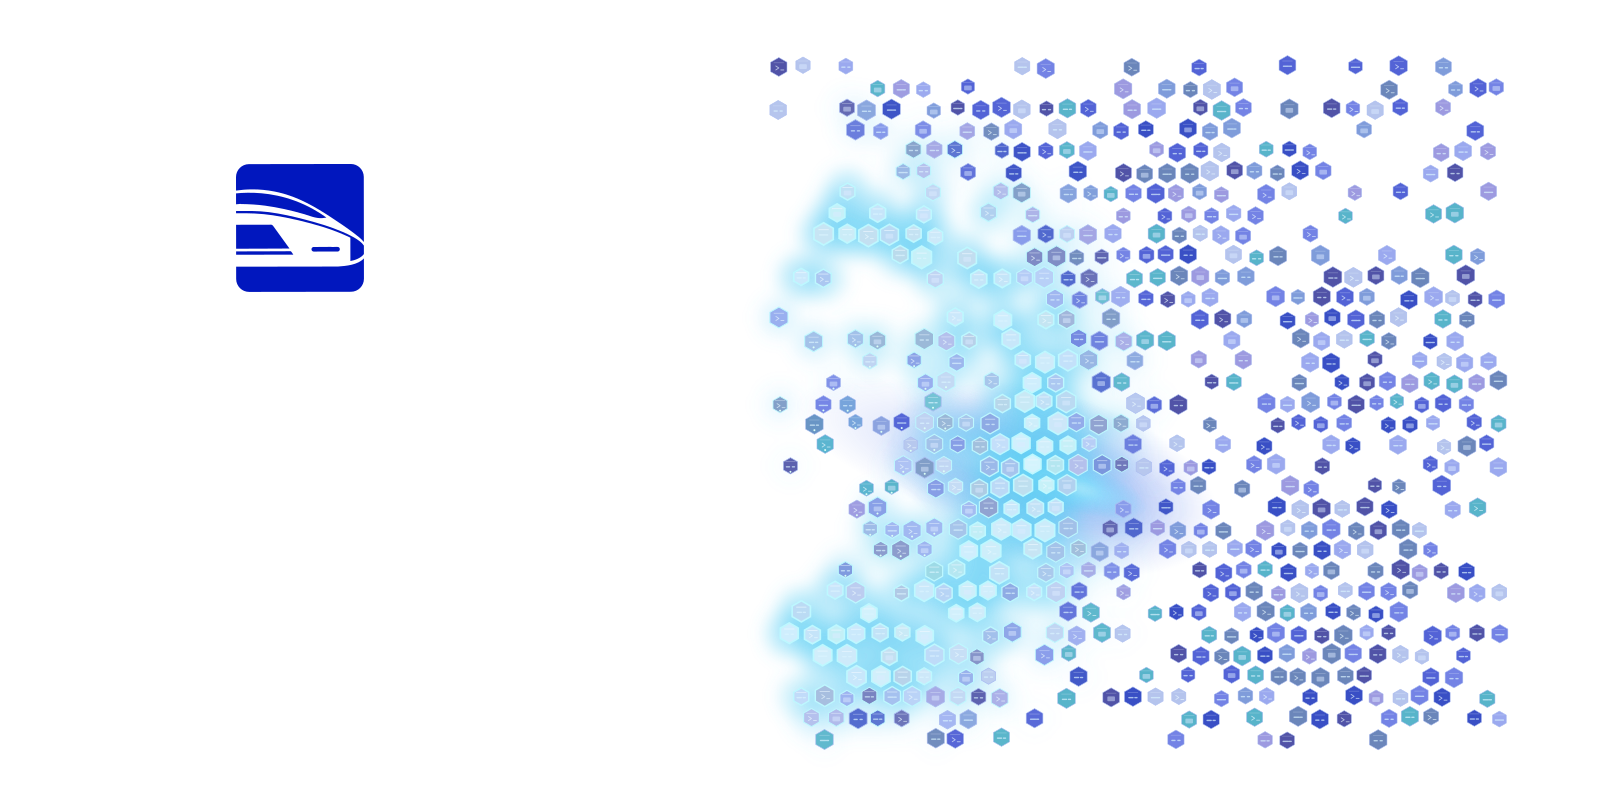
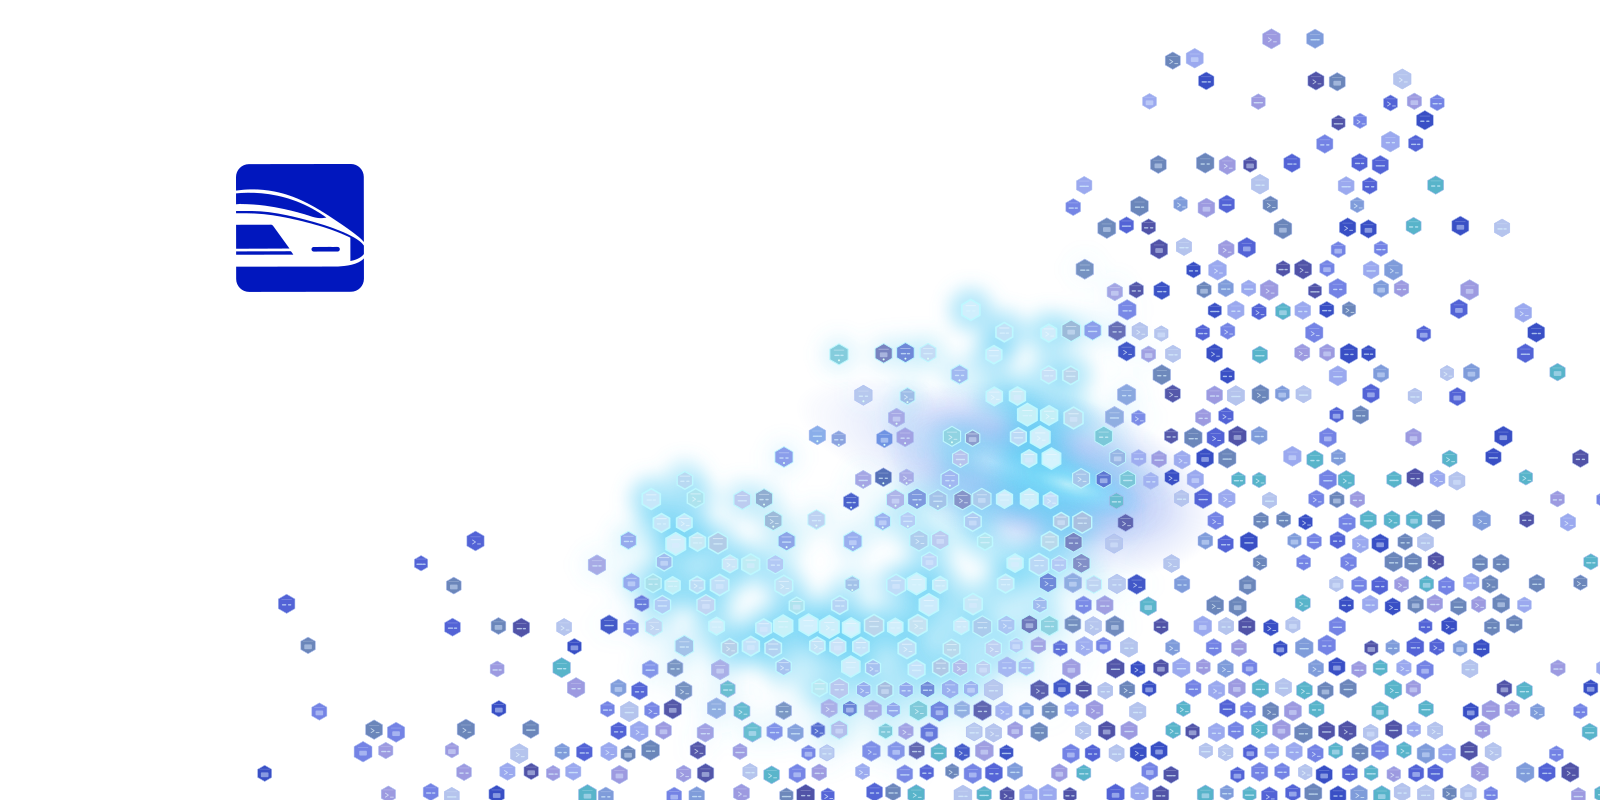
docs(blog): let the deployment field widen and flow

diff --git a/blog/litellm_enterprise_registry/RegistryHero.js b/blog/litellm_enterprise_registry/RegistryHero.js
@@ -19,7 +19,7 @@ export default function RegistryHero() {
           src={imageUrl(paused ? poster : animation)}
           width="1600"
           height="800"
-          alt="A broad pulse of light travels slowly from the LiteLLM logo to an organic field of varied gateway pods spread across the right half. The workloads glow in sequence to represent a rolling deployment."
+          alt="A broad pulse of light travels slowly from the LiteLLM logo to a flowing field of varied gateway pods. The field is sparse at the top, widens toward the bottom, and spills leftward. Workloads glow in sequence to represent a rolling deployment."
         />
       </picture>
       <button type="button" className={styles.control} aria-label={paused ? 'Play animation' : 'Pause animation'} onClick={() => setPaused(value => !value)}>

diff --git a/blog/litellm_enterprise_registry/animation/README.md b/blog/litellm_enterprise_registry/animation/README.md
@@ -1,6 +1,6 @@
 # Enterprise Registry animation
 
-A transparent, text-free animation authored at 1600 by 800 and exported at 1200 by 600, at 25 fps. The LiteLLM monogram stands alone in the upper left. A broad pulse of light moves slowly toward 622 gateway pods spread organically across the right half. There is no persistent beam path, cone, or enclosure. The fleet varies in blue, cyan, and lavender shades, size, and internal details. Each pod glows and cycles in sequence, then settles into its updated state to represent a rolling deployment.
+A transparent, text-free animation authored at 1600 by 800 and exported at 1200 by 600, at 25 fps. The LiteLLM monogram stands alone in the upper left. A broad pulse of light moves slowly toward 710 gateway pods in a flowing field that is sparse at the top and wider and denser toward the bottom, spilling leftward across the canvas midpoint. There is no persistent beam path, cone, or enclosure. The fleet varies in blue, cyan, and lavender shades, size, and internal details. Each pod glows and cycles in sequence, then settles into its updated state to represent a rolling deployment.
 
 The ten-second loop illustrates one image pull and deployment. Its timing and pod count do not represent measured transfer speed, throughput, or customer scale. The article explains OAuth and AWS ECR pull-through access; the cover focuses on the pull and deployment.
 
